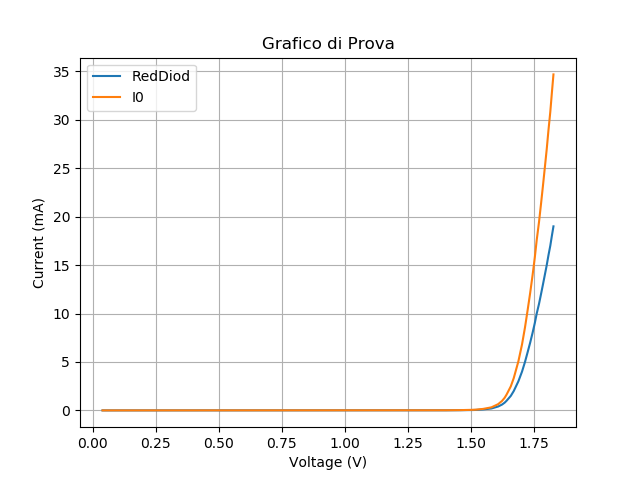
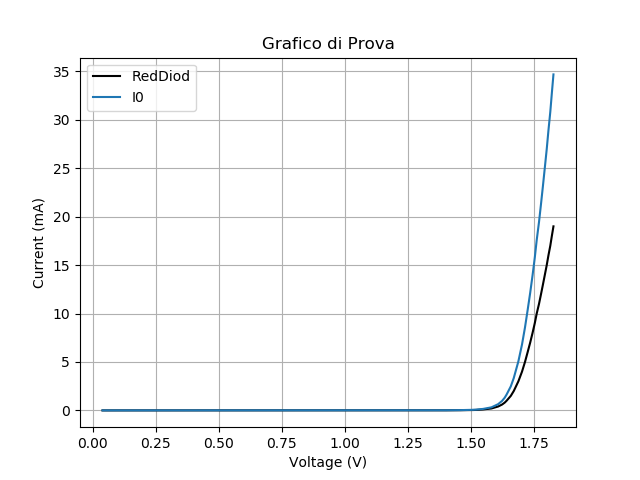
no changes

diff --git a/operatingFunctions.py b/operatingFunctions.py
@@ -283,7 +283,7 @@ def newPlot(info):
 
     #plotting
     plt.figure()
-    plt.plot(x,y,label=ylabel)
+    plt.plot(x,y,label=ylabel, color=colorDict['red'])
     plt.title(title)
     plt.xlabel(xname)
     plt.ylabel(yname)
@@ -325,5 +325,6 @@ dataSet_dict = {} #dictionary containing all the DSet
 analisy = [True]  #awful way to have a global variable to check if the varaibles have alrady been instantitated
 
 functionDict = {'PRINTDATA': printData, 'FUNCTION': function} #dictionary of all the exacutable functions
+colorDict = {'red': '#000000'}
 #'STARTANALISY': startAnalisy
-#add ability to create custom dataSets  
+#add ability to creat1e custom dataSets  
